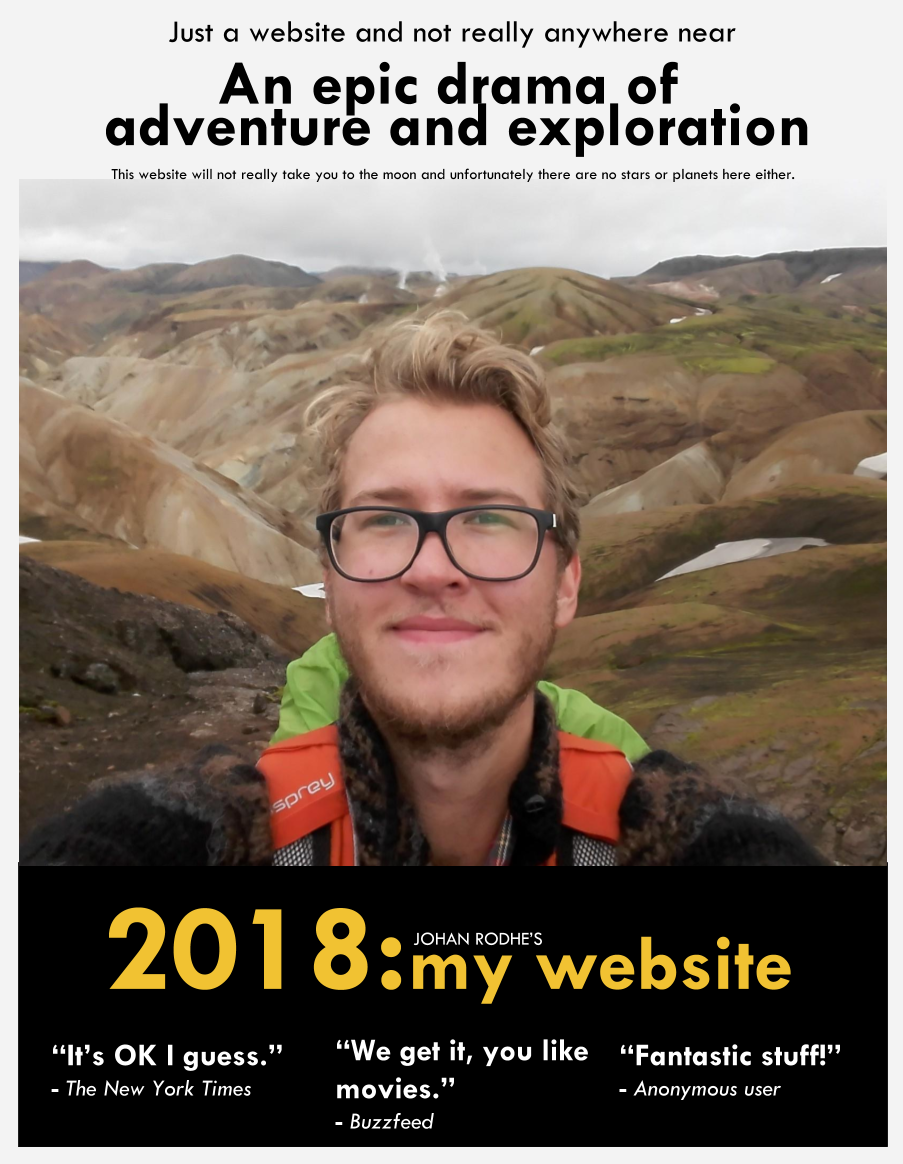
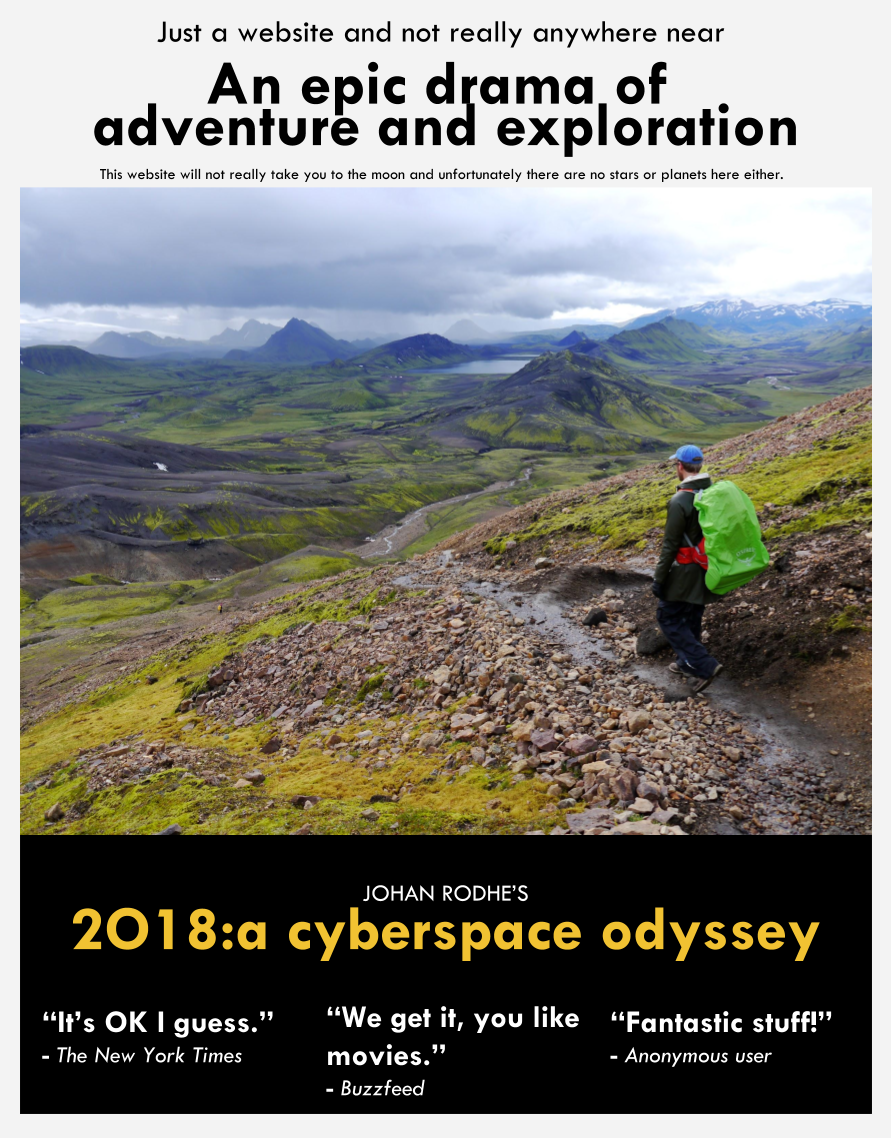
responsive navbar and im sizing

diff --git a/css/narrow-jumbotron.css b/css/narrow-jumbotron.css
@@ -19,6 +19,7 @@ body {
 .header {
   padding-bottom: 1rem;
   border-bottom: .05rem solid #e5e5e5;
+  display: block;
 }
 /* Make the masthead heading the same height as the navigation */
 .header h3 {
@@ -27,12 +28,14 @@ body {
   line-height: 3rem;
 }
 
+
 .container {
-  width: 50em;
-  padding: 0;
-  margin: auto;
+  overflow: hidden;
+  margin-left: auto;
+  margin-right: auto;
   padding-left: 1em;
   padding-right: 1em; 
+  max-width: 50em;
 }
 /* Custom page footer */
 .footer {
@@ -41,25 +44,25 @@ body {
   border-top: .05rem solid #e5e5e5;
 }
 
-/* Customize container */
-@media (min-width: 48em) {
-  .container {
-  }
-}
-.container-narrow > hr {
-  margin: 2rem 0;
+ul.nav {
+  max-width:47em;
+  font-family: 'Montserrat', monospace;
+  list-style-type:none;
+  margin:0em auto;
+  padding:0em;
+  float: right;
 }
 
-/* Main marketing message and sign up button */
-.jumbotron {
-  text-align: center;
-  border-bottom: .05rem solid #e5e5e5;
-  background-color: #0d1013;
+ul.nav li:hover {
+  background: rgba(0, 85, 221, 0.25);
 }
-.jumbotron .btn {
-  padding: .75rem 1.5rem;
-  font-size: 1.5rem;
+ul.nav li{
+  float:left;
+  padding:1em 1em 1em 1em;
 }
+
+
+
 
 #h-name {
   color: rgb(198, 16, 45);
@@ -70,6 +73,7 @@ body {
 #h-subheading {
   color: rgb(198, 16, 45);
   border-bottom: .05rem solid rgb(198, 16, 45);
+  margin-top: 1em;
 }
 
 .lead {
@@ -80,9 +84,10 @@ body {
   color: #ce6565;
 }
 #poster {
-  width: 30vw;
-  margin-right: 20%;
-  margin-left: 20%;
+  display: block;
+  width: 50%;
+  margin-right: auto;
+  margin-left: auto;
   margin-bottom: 2rem;
 }
 
@@ -90,11 +95,15 @@ body {
   display: block;
   margin-left: auto;
   margin-right: auto;
-  margin-bottom: 2em;
-  width: 30%;
-  height: 40%;
-  border-radius: 50%;
-  border: solid 2px #ffffff;
+  margin-top: 1em;
+  width: 40%;
+  height: 55%;
+  border-radius: 10%;
+}
+
+.relative {
+  position: relative;
+  float: left;
 }
 
 #head {
@@ -105,10 +114,11 @@ body {
 }
 
 #cell {
+  display: block;
   margin-bottom: 4rem;
   margin-top 2rem;
-  margin-left: 3rem;
-  margin-right: 3rem;
+  margin-left: auto;
+  margin-right: auto;
 }
 
 /* Supporting marketing content */
@@ -136,4 +146,27 @@ body {
   .jumbotron {
     border-bottom: 0;
   }
+}
+
+@media (max-width: 580px) {
+  ul.nav{
+    padding:0em;
+    margin-bottom: 1em;
+    float: left;
+  }
+  ul.nav li {
+    box-sizing:border-box;
+    width:100%;
+    margin:0em 0em;
+    padding: 1em 1em;
+    font-size:1em;
+    border-bottom: 1px #007bff solid;
+  }
+  #avatar {
+    width: 80%;
+    height 90%;
+  }
+  #poster {
+    width: 100%;
+  }  
 }

diff --git a/index.html b/index.html
@@ -19,20 +19,18 @@
   </head>
 
   <body>
-      <div class="header clearfix">
-        <nav id="head">
-          <ul class="nav nav-pills float-right">
-            <li class="nav-item">
+      <div class="header">
+          <ul class="nav">
+            <li class="relative">
               <a class="nav-link active" href="#">Home <span class="sr-only">(current)</span></a>
             </li>
-            <li class="nav-item">
+            <li class="relative">
               <a class="nav-link" href="cellexal.html">CellexalVR</a>
             </li>
-           <li class="nav-item">
+           <li class="relative">
               <a class="nav-link" href="#">CV</a>
             </li>
           </ul>
-        </nav>
         <h1 id="h-name">Johan Rodhe</h1>
       </div>
 
@@ -42,7 +40,7 @@
 	      <br>
 	<p style="margin-left: 1rem;" >JOHANRODHE@GMAIL.COM</p>
       </div>-->
-      <a href="images/bild1.jpg"><img id="avatar" src="images/bild1.jpg" height=200 width=240></a>
+      <a href="images/bild1.jpg"><img id="avatar" href="images/bild1.jpg" src="images/bild1.jpg" height=200 width=240></a>
         <h2 id="h-subheading">Welcome to my website!</h2>
         <p class="lead">I am a computer scientist, graduating from Lunds University this summer. I have a great interest in data analysis, machine learning and computer graphics.  
 	Right now I'm working on my master thesis at <a href="https://www.axis.com/se/sv/">Axis Communications</a> together with my classmate Gustaf. 
@@ -52,7 +50,7 @@
 	This website was made in the process of me learning some css and stuff so.. you know.. be nice.
 	 </p>
 
-	  <img id="poster" src="images/skojposter2.png" width=50%>
+	 <a href="images/skojposter.png"><img id="poster" src="images/skojposter.png" width=50%></a>
           <h2 id="h-subheading">Places I've worked.</h2>
 	  <a href="https://www.axis.com/se/sv/">
 	    <img class="work" src="images/axis-logo.jpg" height="85" width="150" href="https://www.axis.com/se/sv/">
@@ -74,7 +72,7 @@
 	  <a href="https://www.linkedin.com/in/johan-rodhe-225907138/">
 	    <img class="work" src="images/linkedin.png" height="50" width="200" >
 	  </a>
-	    <a style="font-weight:bold; font-size: 1em;">johanrodhe@gmail.com</a>
+	    <a style="font-weight:bold; font-size: 1.5em;">johanrodhe@gmail.com</a>
 
 
     </div>

diff --git a/cellexal.html b/cellexal.html
@@ -19,27 +19,21 @@
 
   <body>
       <div class="header clearfix">
-        <nav id="head">
-          <ul class="nav nav-pills float-right">
-            <li class="nav-item">
+          <ul class="nav">
+            <li class="relative">
 	      <a class="nav-link" href="index.html">Home</a>
             </li>
-            <li class="nav-item">
+            <li class="relative">
               <a class="nav-link active" href="#">CellexalVR</a><span class="sr-only">(current)</span></a>
             </li>
-            <li class="nav-item">
+            <li class="relative">
               <a class="nav-link" href="#">CV</a>
             </li>
           </ul>
-        </nav>
         <h1 id="h-name">CellexalVR</h1>
       </div>
 
     <div class="container">
-    <div class="row">
-      <div class="col-3">
-      </div>
-      <div class="col-8">
         <h2 id="h-subheading">What it is.</h2>
         <p class="lead">CellexalVR is a research project at the Computational Genomics Lab at the Division of Molecular Hematology and Stem Cell Center project that I am glad to be a part of. 
 	<br>
@@ -48,8 +42,6 @@
 	If you want to know more, please check out the website <a href="http://www.cellexalvr.med.lu.se">here,</a>	
 	</p>
 	<iframe id="cell" style="max-width: 100%; max-height: 100%;" src="https://player.vimeo.com/video/241027903" width="640" height="360" frameborder="2" webkitallowfullscreen mozallowfullscreen allowfullscreen></iframe>
-      </div>
-    </div>
     </div>
 
       <footer class="footer">
